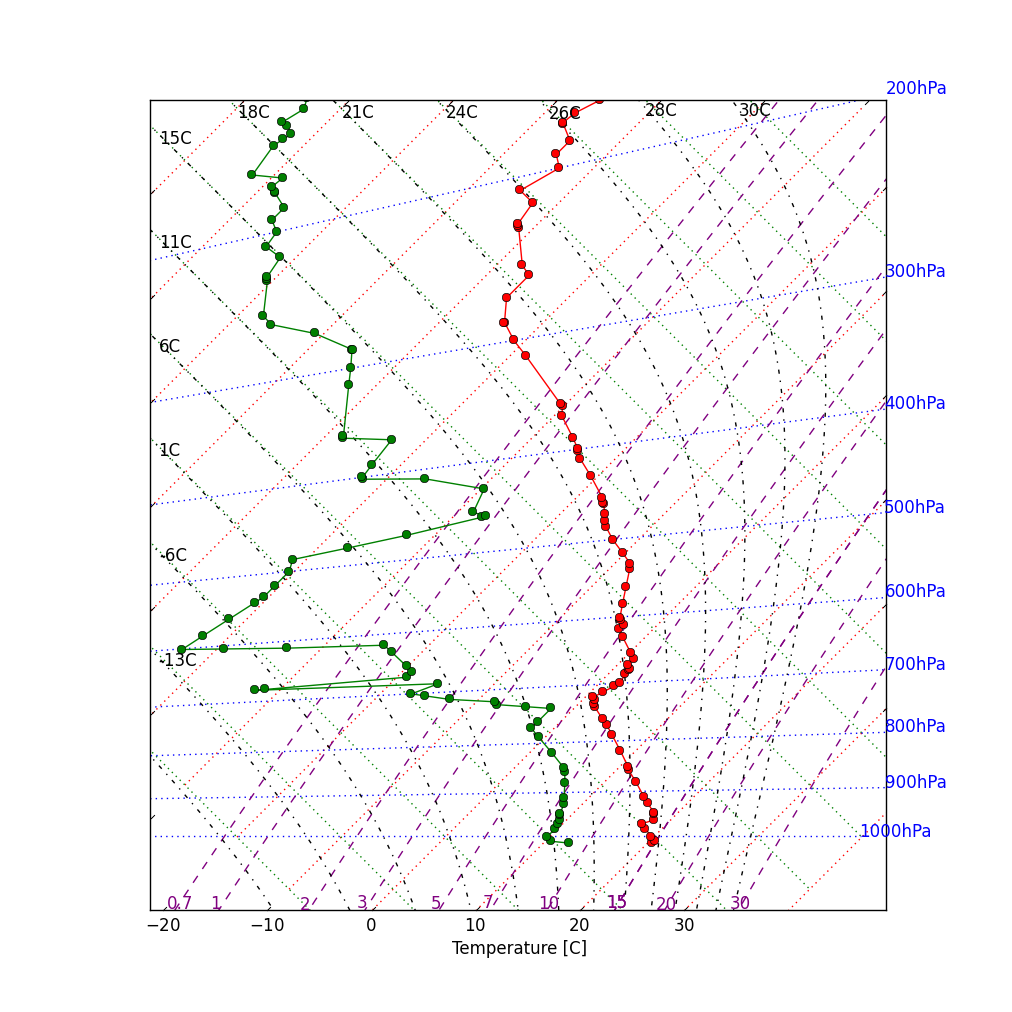
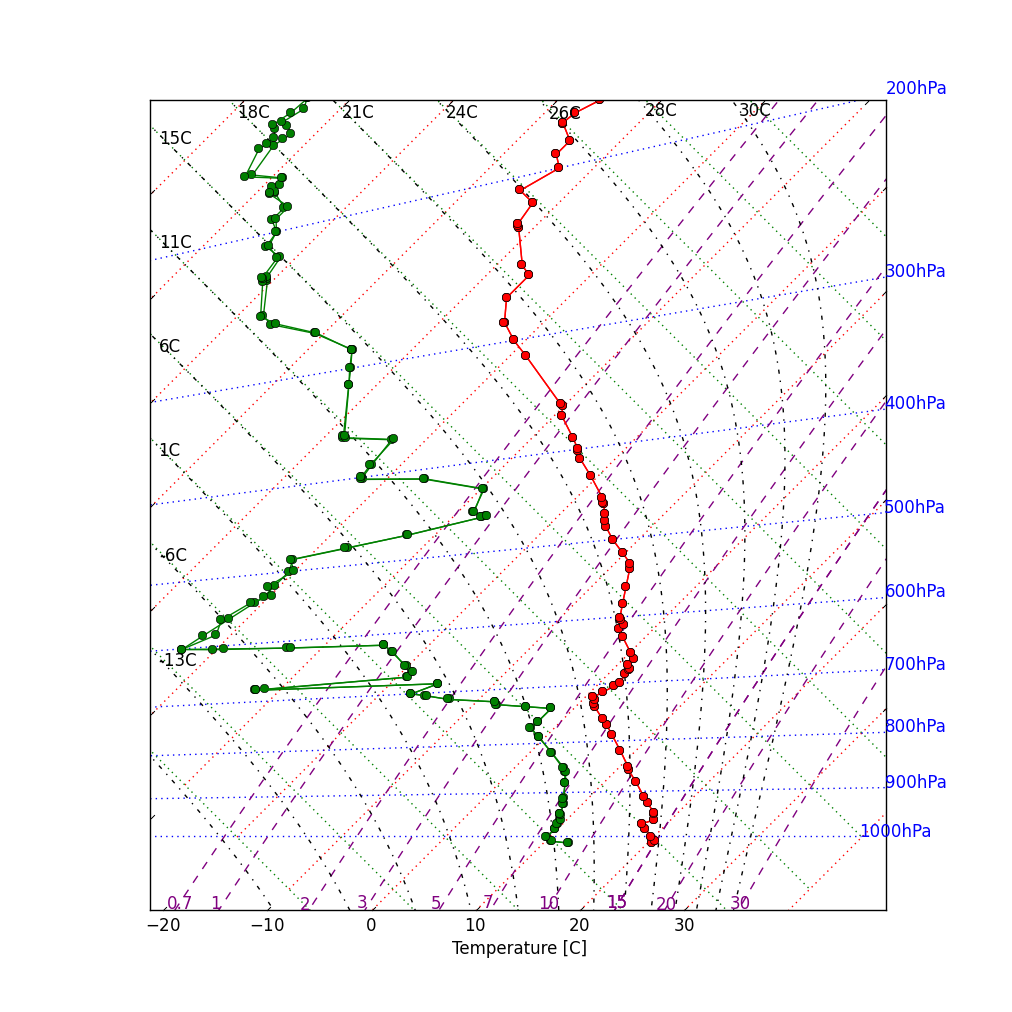
Added RH-plotting

diff --git a/tephigram_plotter.py b/tephigram_plotter.py
@@ -41,6 +41,8 @@ T1=-10.
 T2=40.
 theta1=-12.
 
+plot_sat_adiabat_labels = False
+
 rotation_angle = 45.
 rotation_origin = [T1, theta1]
 
@@ -52,20 +54,25 @@ qs_ = 1.e-3*np.array([30., 20., 15., 10., 7., 5., 3., 2., 15., 1.0, 0.7,])
 x_min = -40.
 x_max = 60.0
 y_min = -10.
-y_max = 100.
+y_max = 80.
 
 T_ = np.arange(T_min, T_max+0.1, d_T)
 
 class Tephigram:
-    def __init__(self):
-        fig = plot.figure(figsize=(10,10))
+    def __init__(self, fig=None, subplotshape=None):
+        if fig is None:
+            fig = plot.figure(figsize=(10,10))
         self.fig = fig
-        self.setup_axes1(fig, '111')
+        self.setup_axes1(fig, subplotshape)
+        self.plot = plot
+        self.lines = []
+
         self.plot_temp_lines()
         self.plot_pot_temp_lines()
         self.plot_pressure_lines()
         self.plot_qs_lines()
         self.plot_sat_adiabats()
+
 
     def savefig(self, filename):
         self.fig.savefig(filename)
@@ -84,8 +91,31 @@ class Tephigram:
         theta = self.f_theta(P=P, T=(T_dp+273.15))
         self.ax1.plot(*self._tf(T_dp, theta-273.15), marker='o', color='green')
 
+    def plot_temp(self, P, T, color='red'):
+        """
+        Input sounding defined by P and T
 
-    def setup_axes1(self, fig, rect):
+        Expected units:
+            T [C], P [hPa]
+        """
+        theta = self.f_theta(P=P, T=(T+273.15))
+
+        x, y = self._tf(T, theta-273.15)
+
+        self.ax1.plot(*self._tf(T, theta-273.15), marker='o', color=color)
+
+        return x, y
+
+    def plot_RH(self, P, T, RH, color='green'):
+        """
+        dew-point equation source: http://andrew.rsmas.miami.edu/bmcnoldy/Humidity.html
+        """
+        T_dp = 243.04*(np.log(RH)+((17.625*T)/(243.04+T)))/(17.625-np.log(RH)-((17.625*T)/(243.04+T)))
+
+        theta = self.f_theta(P=P, T=(T_dp+273.15))
+        self.ax1.plot(*self._tf(T_dp, theta-273.15), marker='o', color='green')
+
+    def setup_axes1(self, fig, subplotshape=None):
         """
         A simple one.
         """
@@ -97,7 +127,10 @@ class Tephigram:
 
         grid_helper = GridHelperCurveLinear(self.tr, grid_locator1=FixedLocator(T_ticks), grid_locator2=FixedLocator(theta_ticks))
 
-        ax1 = Subplot(fig, 1, 1, 1, grid_helper=grid_helper)
+        if subplotshape is None:
+            subplotshape = (1,1,1)
+
+        ax1 = Subplot(fig, *subplotshape, grid_helper=grid_helper)
         # ax1 will have a ticks and gridlines defined by the given
         # transform (+ transData of the Axes). Note that the transform of
         # the Axes itself (i.e., transData) is not affected by the given
@@ -136,7 +169,9 @@ class Tephigram:
     def plot_pot_temp_lines(self):
         theta_ = np.arange(theta_min, theta_max, d_theta)
         for theta in theta_:
-            self.ax1.plot(*self._tf([T_min, T_max], [theta, theta]  ), linestyle=':', color='green')
+            line = self.ax1.plot(*self._tf([T_min, T_max], [theta, theta]  ), linestyle=':', color='green', label='dry adiabat')
+
+        self.lines += line
 
     def plot_pressure_lines(self):
         """
@@ -223,7 +258,7 @@ class Tephigram:
             theta_const_qs = np.array(theta_const_qs_K) - 273.15
             
             x, y = self._tf(T, theta_const_qs)
-            self.ax1.plot(x, y, linestyle='-.', color='black')
+            line = self.ax1.plot(x, y, linestyle='-.', color='black', label='moist adiabat')
 
             k = np.argmin(np.abs(np.array(P_arr)-1000.))
             T_at_1000 = T[k]
@@ -233,7 +268,14 @@ class Tephigram:
             x0 = x[kk] + 1.
             y0 = y[kk] - 2.
 
-            self.ax1.text(x0, y0, "%gC" % T_at_1000, color='black')
+            if plot_sat_adiabat_labels:
+                self.ax1.text(x0, y0, "%gC" % T_at_1000, color='black')
+
+        self.lines += line
+
+    def plot_legend(self):
+        labels = [l.get_label() for l in self.lines]
+        plot.legend(self.lines, labels, loc='upper left', prop={'size': 10})
         
 
 if __name__ == "__main__":
@@ -246,4 +288,17 @@ if __name__ == "__main__":
 
     tephigram.plot_sounding(P=P, T=T, T_dp=T_dp)
 
+    RH = sounding[4]
+    T_dp2 = 243.04*(np.log(RH/100)+((17.625*T)/(243.04+T)))/(17.625-np.log(RH/100)-((17.625*T)/(243.04+T)))
+    tephigram.plot_sounding(P=P, T=T, T_dp=T_dp2)
+
     tephigram.savefig('tephigram_example.png')
+
+
+    plot.figure()
+    z = sounding[1]
+
+    plot.plot(T_dp2, z, label='calc')
+    plot.plot(T_dp, z)
+    plot.legend()
+    raw_input()
